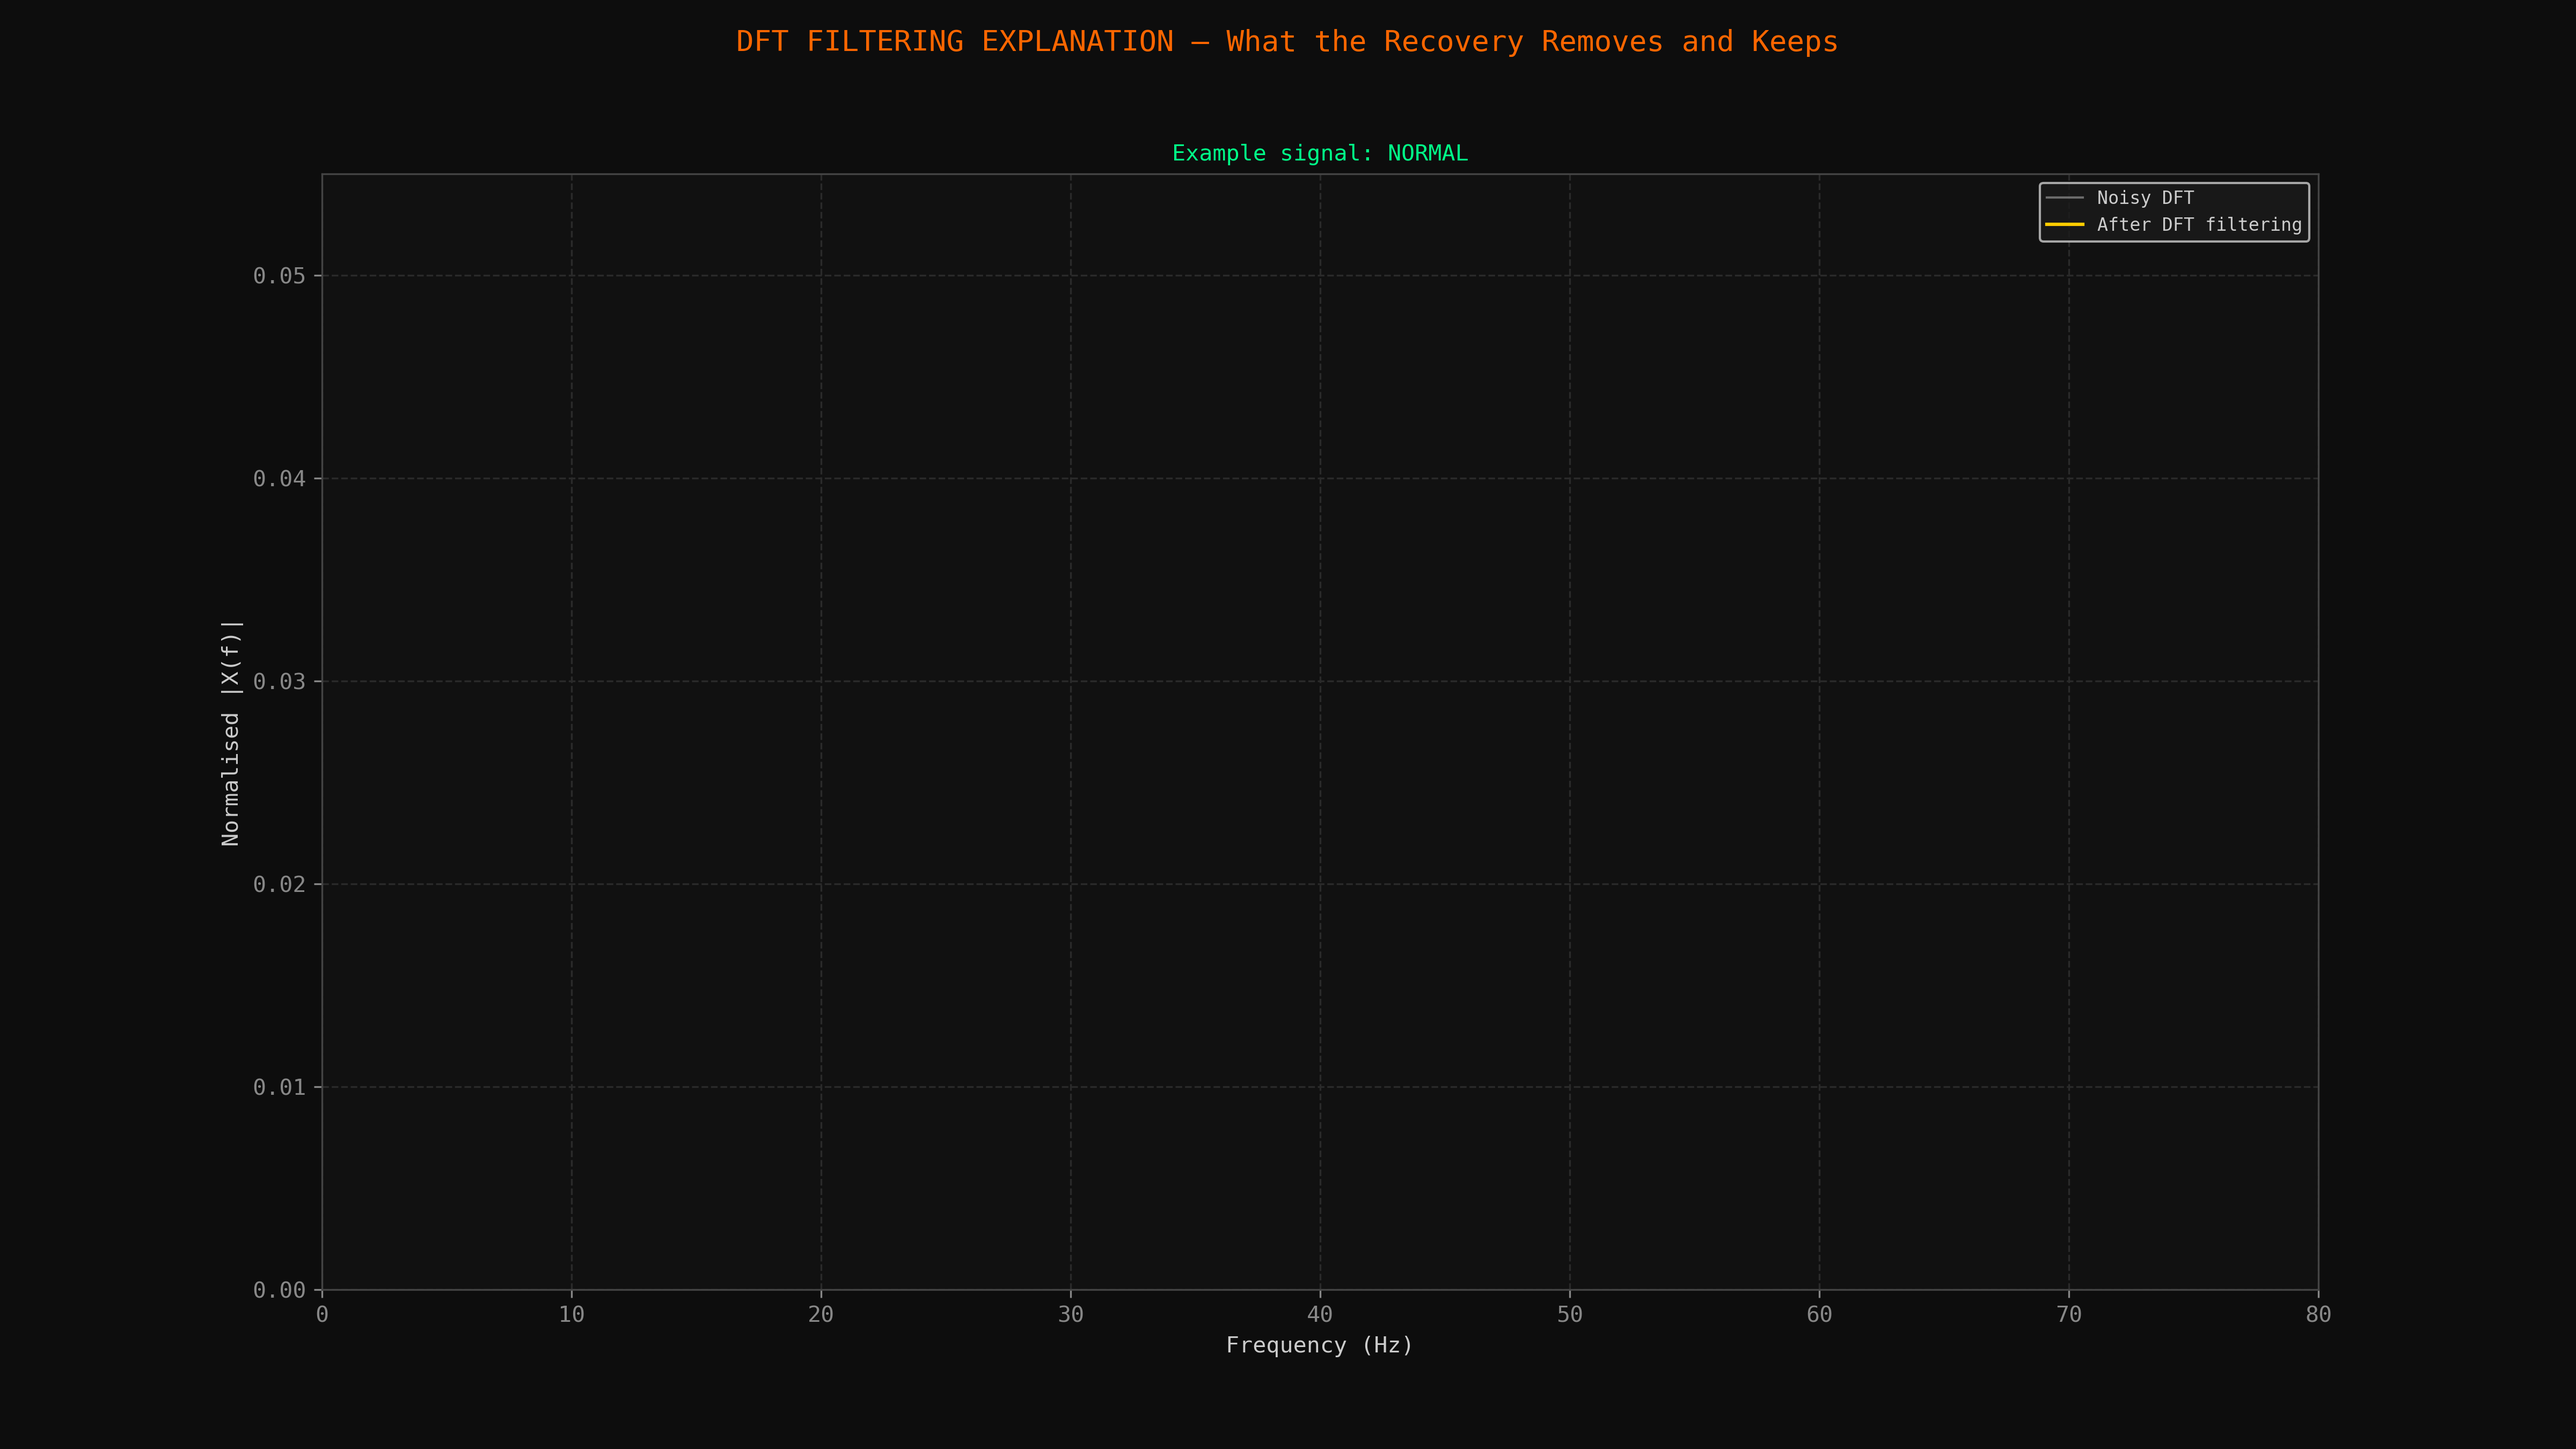
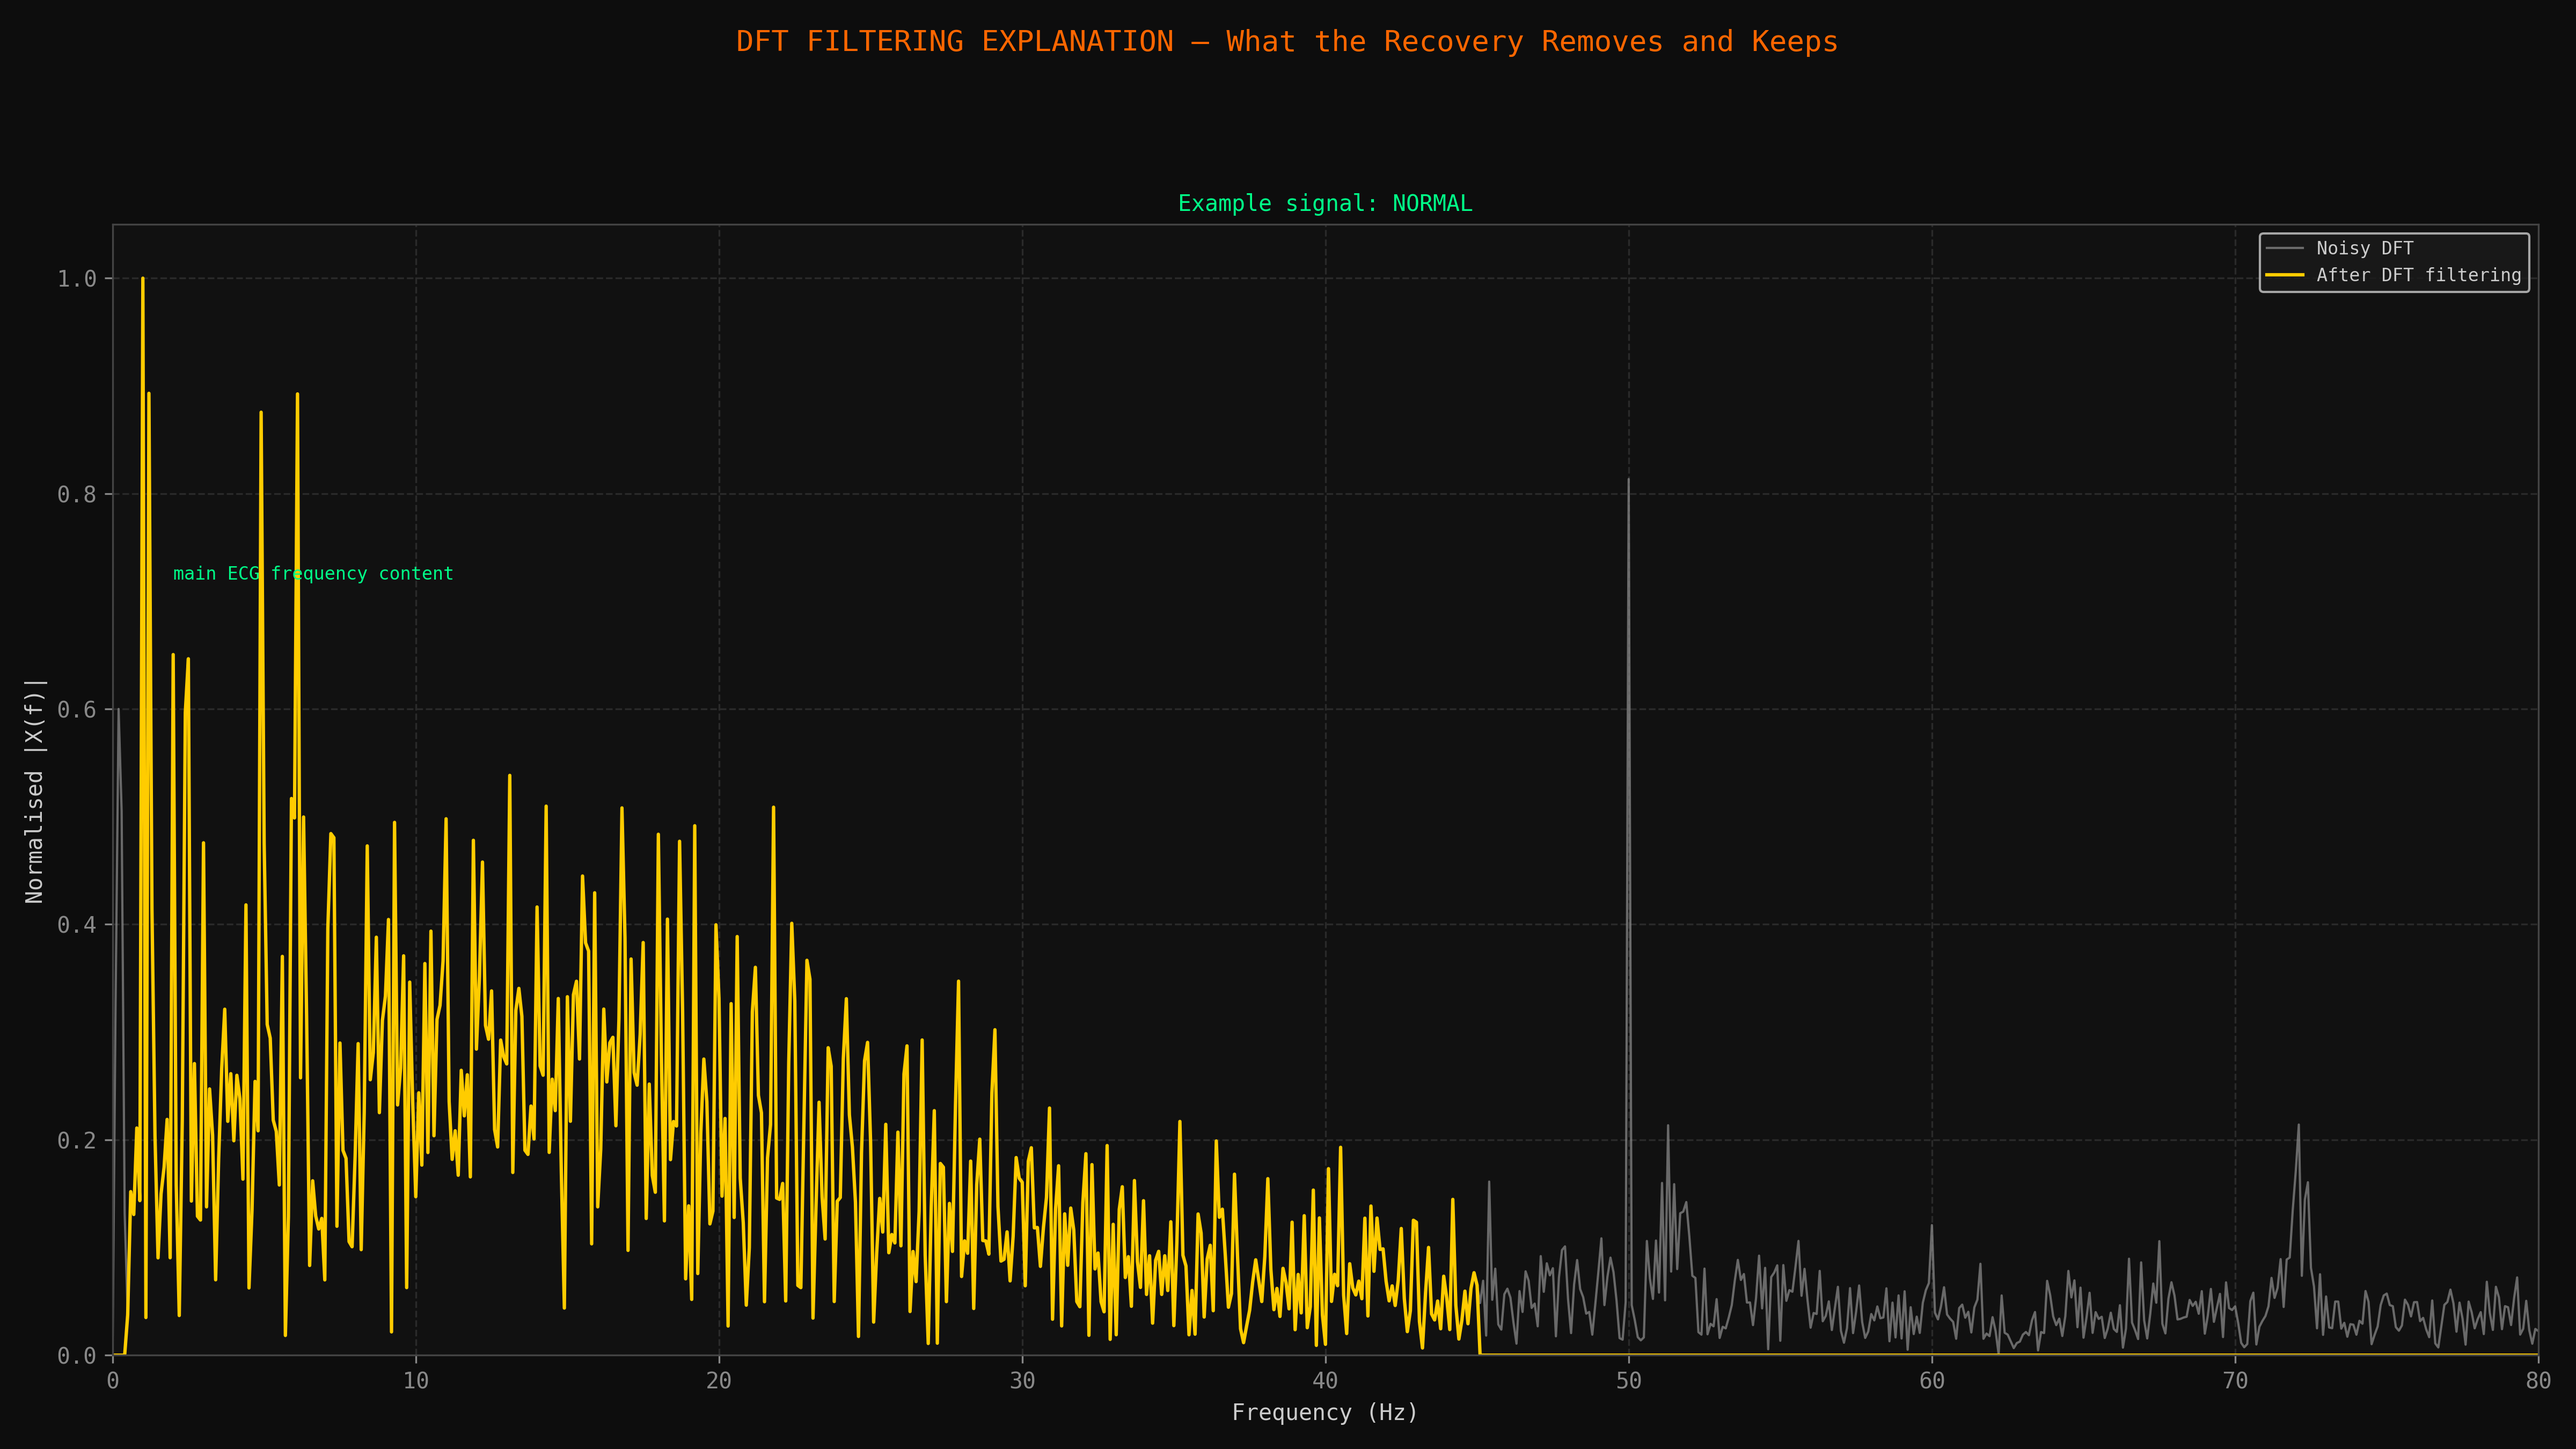
fixing no graph 2

diff --git a/stress_tests.py b/stress_tests.py
@@ -1,6 +1,6 @@
 import numpy as np
 
-from ecg_signals import (load_normal, load_bradycardia, load_arrhytmia, add_noise,)
+from ecg_signals import (load_normal, load_bradycardia, load_arrhytmia, add_real_noise,)
 from dft_filter import heart_rate_dft, spectral_magnitude, dft_bandpass
 
 ## PARAMETER SENSITIVITY - observation window length
@@ -38,14 +38,14 @@ def window_sensitivity(fs=500, duration=10.0):
 def noise_robustness(fs=500, duration=10.0, n_trials=5):
     snr_levels = np.linspace(-5, 30, 15)         #dB
     true_bpms = {
-        "normal": 75.0,         #mean BPM of record 100
-        "zombie": 48.0,         #mean BPM of record 119
-        "turning": 88.0,        #mean BPM of record 203
+        "normal":      75.0,    #mean BPM of record 100
+        "bradycardia": 48.0,    #mean BPM of record 119
+        "arrhythmia":  88.0,    #mean BPM of record 203
     }
     generators = {
-        "normal":load_normal,
-        "zombie":load_bradycardia,
-        "turning":load_arrhytmia,
+        "normal":      load_normal,
+        "bradycardia": load_bradycardia,
+        "arrhythmia":  load_arrhytmia,
     }
     results = {}
 
@@ -58,7 +58,7 @@ def noise_robustness(fs=500, duration=10.0, n_trials=5):
             #takes an average over multiple noise seeds for stable estimates
             hrs = []
             for seed in range(n_trials):
-                noisy = add_noise(ecg_clean, fs, snr_db=snr, seed=seed*17)      #Hz, dB
+                noisy = add_real_noise(ecg_clean, fs, snr_db=snr, seed=seed*17)  #Hz, dB
                 #applies bandpass and estimates BPM 
                 recovered, _, _ = dft_bandpass(noisy, fs, f_low=0.5, f_high=45.0)   #Hz, Hz, Hz
                 hrs.append(heart_rate_dft(recovered, fs))      #BPM, Hz

diff --git a/ecg_signals.py b/ecg_signals.py
@@ -3,8 +3,9 @@ import numpy as np
 import wfdb         #PhysioNet library that reads MIT-BIH files (.dat and .hea)
                     #raw signal from .dat , sample rate and units from .hea
 
-MITDB_DIR = "mitdb"     #MIT-BIH database with heartrates
-NOISE_DIR = "nstdb"     #MIT-BIH database with noise
+_HERE = os.path.dirname(os.path.abspath(__file__))
+MITDB_DIR = os.path.join(_HERE, "mitdb")   #MIT-BIH database with heartrates
+NOISE_DIR = os.path.join(_HERE, "nstdb")   #MIT-BIH database with noise
 TARGET_FS = 500         #defines target sampling rate as 500 Hz
 
 #loads segment from the MIT-BIH database
@@ -68,6 +69,7 @@ def _load_noise_record(name, n_samples, fs, seed=0):
     rng = np.random.default_rng(seed)
     start = rng.integers(0, len(raw_rs) - n_samples)
     chunk = raw_rs[start:start + n_samples]
+    chunk = np.nan_to_num(chunk, nan=0.0)
 
     #removes offset and scales noise to 1.0 amplitude
     chunk = chunk - np.mean(chunk)

diff --git a/run_me.py b/run_me.py
@@ -12,10 +12,13 @@ SNR_DB = 5
 FIG_DIR = "figures"
 os.makedirs(FIG_DIR, exist_ok=True)
 
-# Remove old output files 
+# Remove old output files
 for filename in os.listdir(FIG_DIR):
     if filename.endswith(".png"):
-        os.remove(os.path.join(FIG_DIR, filename))
+        try:
+            os.remove(os.path.join(FIG_DIR, filename))
+        except OSError:
+            pass
 
 # Load the three ECG signals - normal, turning (arrhythmia) and zombie (bradycardia)
 t, ecg_normal = load_normal(duration=DURATION)
